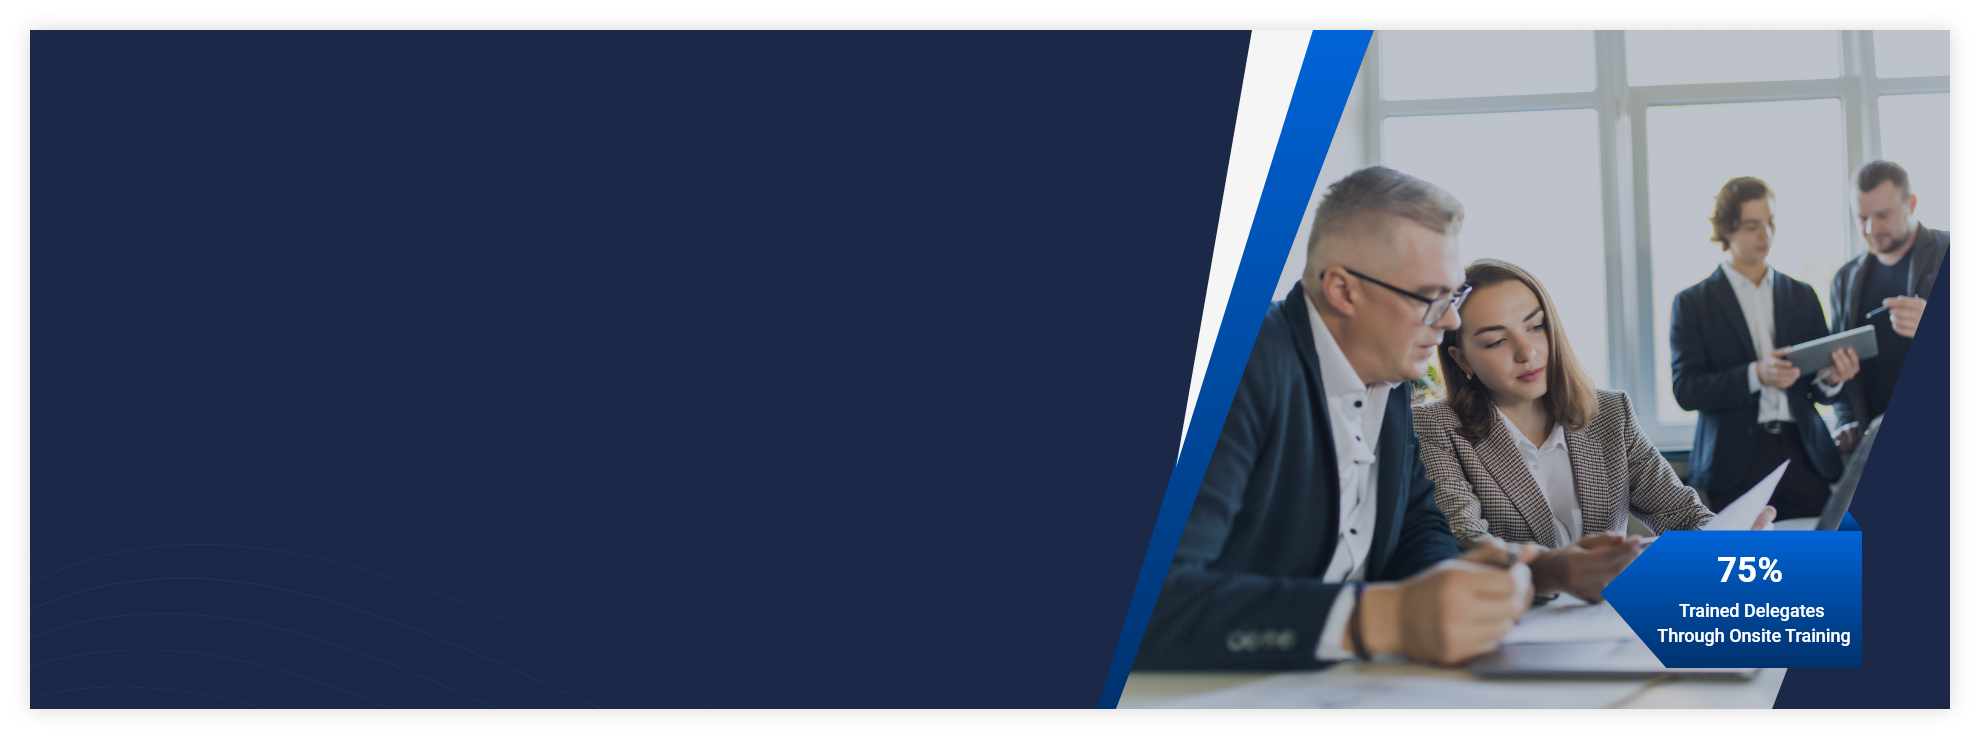
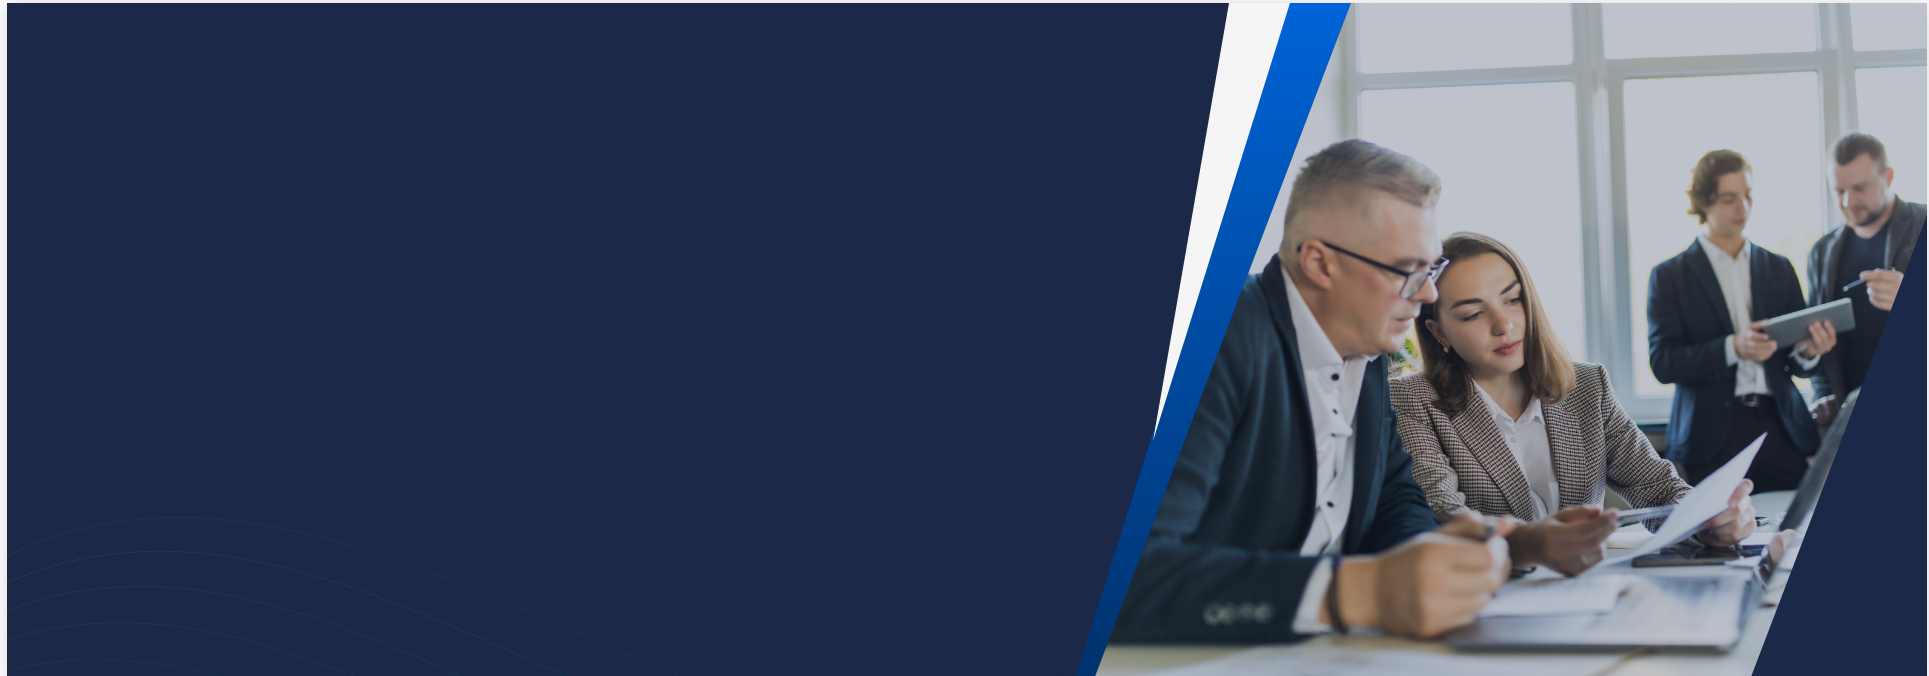
Modification in Onsite Css

Changed region(s): [[0.0, 0.0, 1.0, 1.0]]

diff --git a/public/style/main.css b/public/style/main.css
@@ -5076,7 +5076,8 @@ select::-ms-expand {
 .doorstep .input-container ::placeholder {
   color: #dadada;
 }
-.doorstep .input-container input {
+.doorstep .input-container input,
+.doorstep .input-container textarea {
   color: #FFFFFF;
 }
 .doorstep .info {
@@ -5292,6 +5293,7 @@ select::-ms-expand {
     background-color: transparent;
     background-image: url(../img/onsite/banner-bg.png);
     background-repeat: no-repeat;
+    background-size: 100% 100%;
   }
   .onsite-banner .banner-container {
     width: 48%;

diff --git a/public/style/less/media/onsite.less b/public/style/less/media/onsite.less
@@ -79,6 +79,7 @@
         background-color: transparent;
         background-image: url(../img/onsite/banner-bg.png);
         background-repeat: no-repeat;
+        background-size: 100% 100%;
         .banner-container{
             width: 48%;
         }

diff --git a/public/style/less/onsite.less b/public/style/less/onsite.less
@@ -106,7 +106,7 @@
         ::placeholder{
             color:#dadada;
         }
-        input{
+        input,textarea{
             color: @whiteColor;
         }
     }
